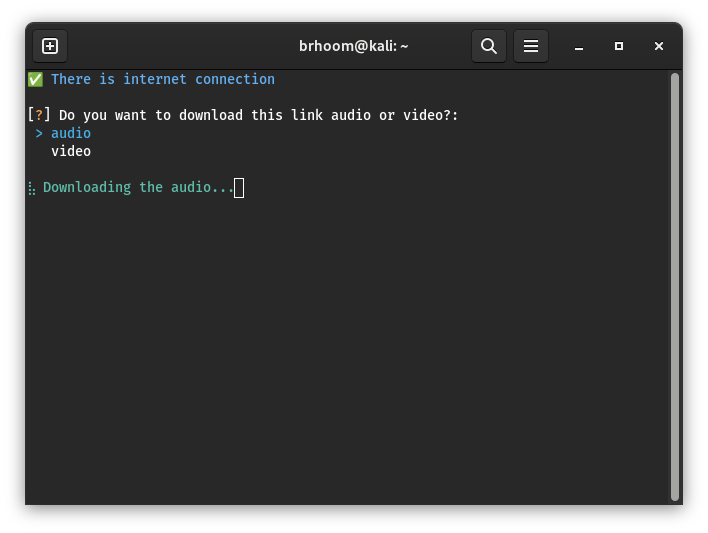
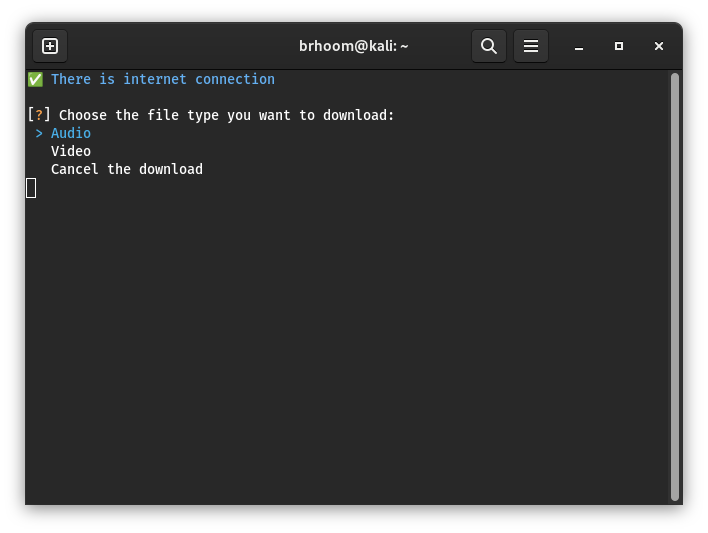
update the cli

Changed region(s): [[0.0932, 0.2101, 0.6525, 0.2402], [0.0311, 0.3002, 0.3418, 0.3602], [0.0621, 0.2402, 0.0932, 0.2702]]

diff --git a/pyutube/cli.py b/pyutube/cli.py
@@ -1,4 +1,5 @@
 # Command-line interface logic
+import os
 from .utils import (
     __app_name__,
     __version__,
@@ -20,20 +21,29 @@ app = typer.Typer()
 
 
 @app.command(name="download", help="Download a YouTube video")
-def download(url: str = typer.Argument(...)):
+def download(
+    url: str = typer.Argument(..., help="YouTube video URL"),
+    path: str = typer.Argument(os.getcwd(), help="Path to save video"),
+):
     clear()
-    if is_internet_available():
-        console.print("✅ There is internet connection", style="info")
-        console.print()
-
-        if is_valid_link := is_youtube_link(url):
-            file = file_type()
-            if file == "audio":
-                download_video(url, is_audio=True)
-            else:
-                quality = ask_resolution()
-                download_video(url, quality)
-        else:
-            console.print("❌ Invalid link", style="danger")
-    else:
+    if not is_internet_available():
         error_console.print("❗ No internet connection")
+        return
+
+    console.print("✅ There is internet connection", style="info")
+    console.print()
+
+    if is_valid_link := not is_youtube_link(url):
+        console.print("❌ Invalid link", style="danger")
+        return
+
+    file = file_type().lower()
+
+    match file:
+        case "audio":
+            download_video(url=url, path=path, is_audio=True,)
+        case "video":
+            quality = ask_resolution()
+            download_video(url=url, quality=quality, path=path)
+        case "cancel the download":
+            return

diff --git a/setup.py b/setup.py
@@ -5,12 +5,10 @@ with open("README.md", "r") as f:
 
 setup(
     name="pyutube",
-    version="0.1",
-    install_requires=["pytube", "inquirer", "yaspin",
+    version="1.0.0",
+    install_requires=["pytube", "inquirer", "yaspin", "typer",
                       "requests", "rich", "inquirer", "termcolor"],
     classifiers=[
-        "Programming Language :: Python :: 3",
-        "Operating System :: OS Independent",
         "License :: OSI Approved :: MIT License",
     ],
     entry_points={
@@ -22,4 +20,7 @@ setup(
     python_requires=">=3.6",
     long_description=description,
     long_description_content_type="text/markdown",
+    project_urls={
+        "Homepage": "https://github.com/Hetari/pyutube",
+    }
 )

diff --git a/pyutube/downloader.py b/pyutube/downloader.py
@@ -13,8 +13,6 @@ from .utils import (
     is_file_exists,
 )
 
-PATH = os.getcwd()
-
 
 @yaspin(text=colored("Searching for the video", "green"), color="green", spinner=Spinners.point)
 def video_search(url: str):
@@ -42,7 +40,7 @@ def save_file(video, path, filename):
     video.download(output_path=path, filename=filename)
 
 
-def download_video(url, quality='720p', path=PATH, is_audio=False):
+def download_video(url, path, quality='720p', is_audio=False):
     try:
         video = video_search(url)
     except Exception as error:

diff --git a/pyutube/utils.py b/pyutube/utils.py
@@ -61,8 +61,8 @@ def file_type() -> dict:
     questions = [
         inquirer.List(
             "file_type",
-            message="Do you want to download this link audio or video?",
-            choices=['audio', 'video'],
+            message="Choose the file type you want to download",
+            choices=['Audio', 'Video', "Cancel the download"],
         ),
     ]
     return inquirer.prompt(questions)["file_type"]

diff --git a/README.md b/README.md
@@ -2,9 +2,7 @@
 
 ## Description
 
-This is a command-line tool to download YouTube videos from the `Terminal`.
-
-it is written in [Python](https://www.python.org/), [Pytube](https://pytube.io/), [Inquirer](https://pypi.org/project/inquirer/), [Yaspin](https://yaspin.dev/), and more [see the requirements.txt](requirements.txt) for more info.
+This is a command-line tool to download YouTube videos from the `Terminal`, written under [Pytube](https://pytube.io/).
 
 it is cross-platform (Windows, Mac, Linux) and can be used in any terminal.
 
@@ -33,24 +31,24 @@ This project was inspired by [uTube](https://github.com/omer73364/uTube/) by [om
 
 ## Installation
 
-Ensure that you have [Pytube](https://pytube.io/) installed on your machine.
-
 ### Method 1: Using Pip
 
-> Coming soon...
+```bash
+pip install pyutube
+```
 
 ### Method 2: Building the project from source
 
 Clone the repository:
 
 ```bash
-git clone https://github.com/Hetari/YouTube-vide-downloader-CLI.git
+git clone https://github.com/Hetari/pyutube.git
 ```
 
 Change to the directory:
 
 ```bash
-cd YouTube-vide-downloader-CLI
+cd pyutube
 ```
 
 Install the requirements:
@@ -68,7 +66,7 @@ python setup.py sdist bdist_wheel
 Install the package via pip:
 
 ```bash
-pip3 install dist/uTube-1.0.tar.gz
+pip3 install dist/*
 ```
 
 > **Warning:**
@@ -81,29 +79,34 @@ Then you can use it in your `Terminal`.
 
 ## Usage
 
-uTube is very easy to use, just type `utube` or `uTube` on your **terminal** or **cmd** then you can use it.
+uTube is very easy to use, just type `utube` on your **terminal** or **cmd** then you can use it.
 
 Here examples of uses:
 
 **- Download videos by `3` steps:**
 
-1.  `utube https://www.youtube.com/watch?v=N3CALZudhkI`.
+1.  `utube https://www.youtube.com/watch?v=N3CALZudhkI [the_download_path]`.
 2.  Choose video or audio format. (right now only video is supported)
 3.  Choose the resolution if it a video you want to download.
 
-| ![enter image description here](images/image1.png) | ![enter image description here](images/image2.png) |
-| -------------------------------------------------- | -------------------------------------------------- |
+`the_download_path` is an optional input, the default is the `terminal` path
+
+| ![enter image description here](pyutube/images/image1.png) | ![enter image description here](pyutube/images/image2.png) |
+| ---------------------------------------------------------- | ---------------------------------------------------------- |
 
 <div style="text-align: center;">
-    <img src="images/image4.png" />
+    <img src="pyutube/images/image3.png" />
+    <br />
+    <br />
+    <img src="pyutube/images/image3.png" />
+
 </div>
 
 ## Contributing
 
 Pull requests are welcome. For major changes, please open an issue first to discuss what you would like to change.
-please follow the [contributing guidelines](CONTRIBUTING.md)
+please follow the [contributing guidelines](https://github.com/Hetari/pyutube/blob/main/CONTRIBUTING.md)
 
 ## License
 
 This project is licensed under the [MIT License](http://choosealicense.com/licenses/mit/).
-![alt text](image.png)
